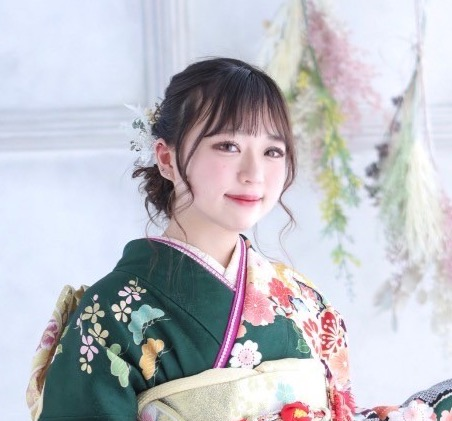
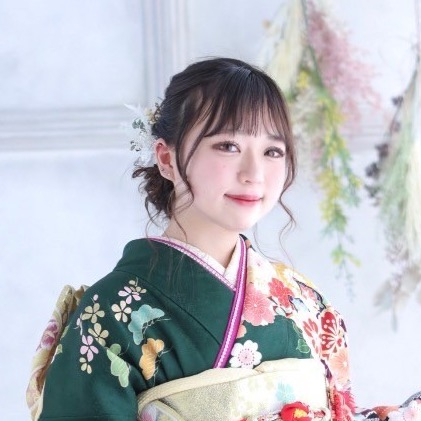
fixed Contact & Bio component & index.html and added manifest

diff --git a/src/components/Contact/Contact.jsx b/src/components/Contact/Contact.jsx
@@ -29,6 +29,7 @@ function Contact() {
             className={styles.subjectForm}
             value={subject}
             onChange={handleSubjectChange}
+            label="subject"
           />
         </Form.Group>
         <Form.Group
@@ -38,7 +39,12 @@ function Contact() {
           onChange={handleMessageChange}
         >
           <Form.Label>Message:</Form.Label>
-          <Form.Control as="textarea" rows={3} className={styles.textForm} />
+          <Form.Control
+            as="textarea"
+            rows={3}
+            className={styles.textForm}
+            aria-label="message"
+          />
         </Form.Group>
         <Mailto subject={subject} body={message} children="Submit" />
       </Form>

diff --git a/index.html b/index.html
@@ -2,8 +2,14 @@
 <html lang="en">
   <head>
     <meta charset="UTF-8" />
-    <link rel="icon" type="image/svg+xml" href="public/flower.svg" />
+    <link rel="icon" type="image/svg+xml" href="/flower.svg" />
+    <link rel="manifest" href="/manifest.json" />
     <meta name="viewport" content="width=device-width, initial-scale=1.0" />
+    <meta
+      name="description"
+      content="This is a Fuka's first deployed personal website. This website is made as a assignment of CPSC2350 class in Langara. This website uses React, React boostrap, CSS Module, and Vite."
+    />
+    <meta name="theme-color" content="#c8b6a6" />
     <title>Fuka's personal website</title>
   </head>
   <body>

diff --git a/src/components/Bio/Bio.module.css b/src/components/Bio/Bio.module.css
@@ -4,7 +4,7 @@
 
 .images img {
   width: 8rem;
-  height: 8rem;
+  height: auto;
   border-radius: 50%;
 }
 
